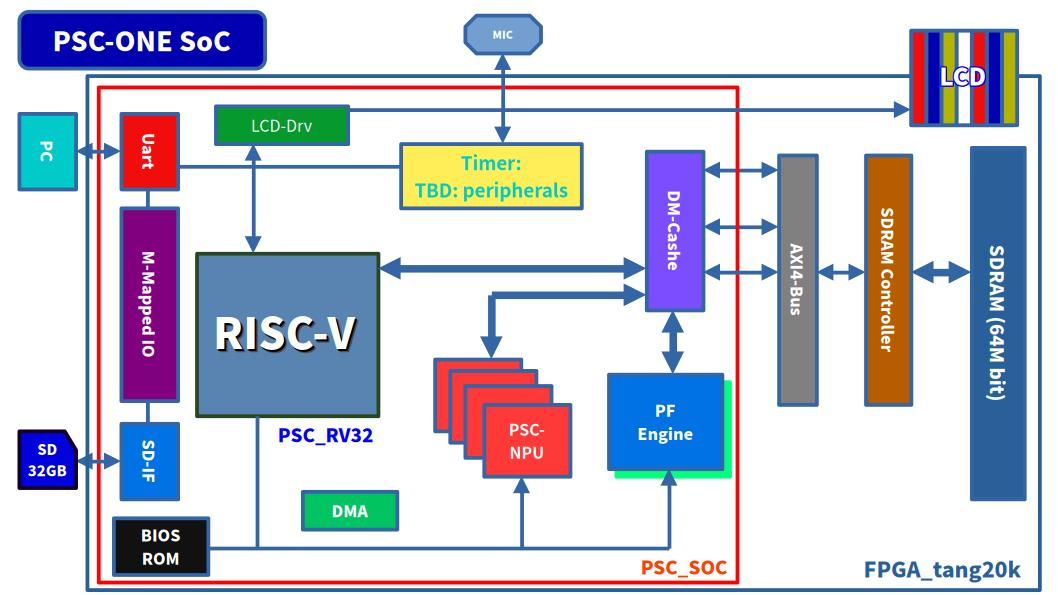
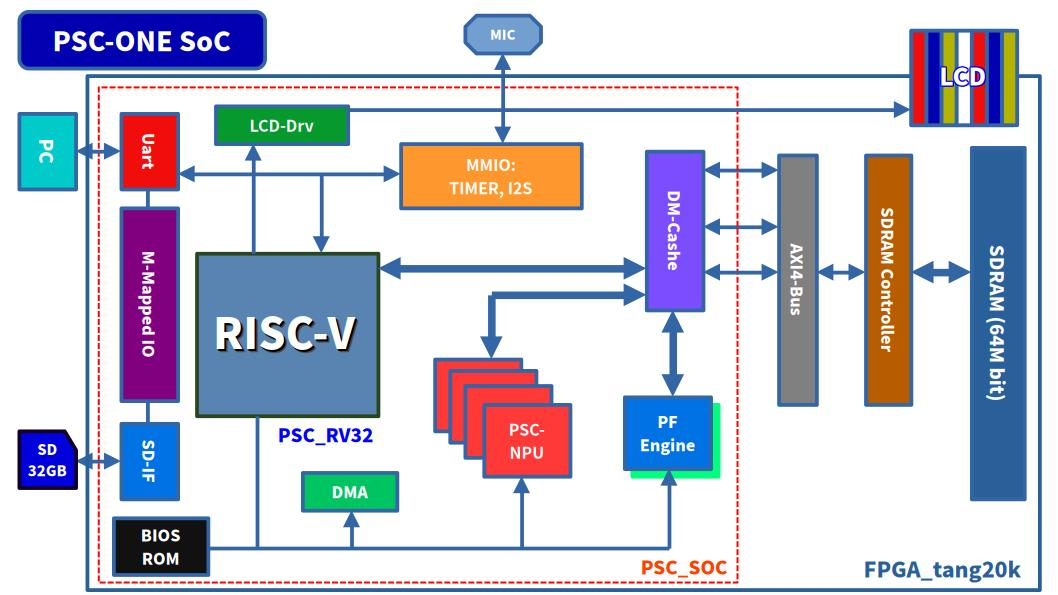
update

diff --git a/README.md b/README.md
@@ -171,7 +171,7 @@ This isolates the CPU core from SDRAM wait states, cache misses, and refill late
 CPU       CoreMark    CoreMark/MHz    Execution Time    CRC Validation
 -----------------------------------------------------------------------
 cpu_v1    80.879974   0.808800        12.364 s          PASS
-cpu_v2    39.987204   0.399872        12.504 s          PASS
+cpu_v2    53.287861   0.532879        18.766 s          PASS
 ```
 
 Recorded measurement conditions (historical results, not rerun for this documentation update):
@@ -285,30 +285,6 @@ multiplier lanes; see [its implementation](hardware/rtl/soc/npu_v1/README.md).
 
 - A **dataflow-oriented compute engine (Systolic Array)**
 - A **control-oriented general-purpose CPU (PicoRV32)**
-
-------------------------------------------------------------------------
-
-### PSC-ONE AI Goals
-
-This project is not intended to compete with commercial AI accelerators.
-
-Instead, the goal is to explore:
-
-- Dataflow-oriented accelerator design
-- Memory bandwidth optimization
-- Small-scale AI hardware prototyping
-- Hardware/software integration techniques
-- Experimental SoC architecture research
-
-------------------------------------------------------------------------
-
-### PSC-ONE AI Future Work
-
-- Manufacturing a demonstration FPGA board
-- Voice recognition demo using the AI accelerator
-- Robot control using PSC-ONE AI
-- Expansion of the systolic array architecture
-- DMA and memory subsystem improvements
 
 ------------------------------------------------------------------------
 
